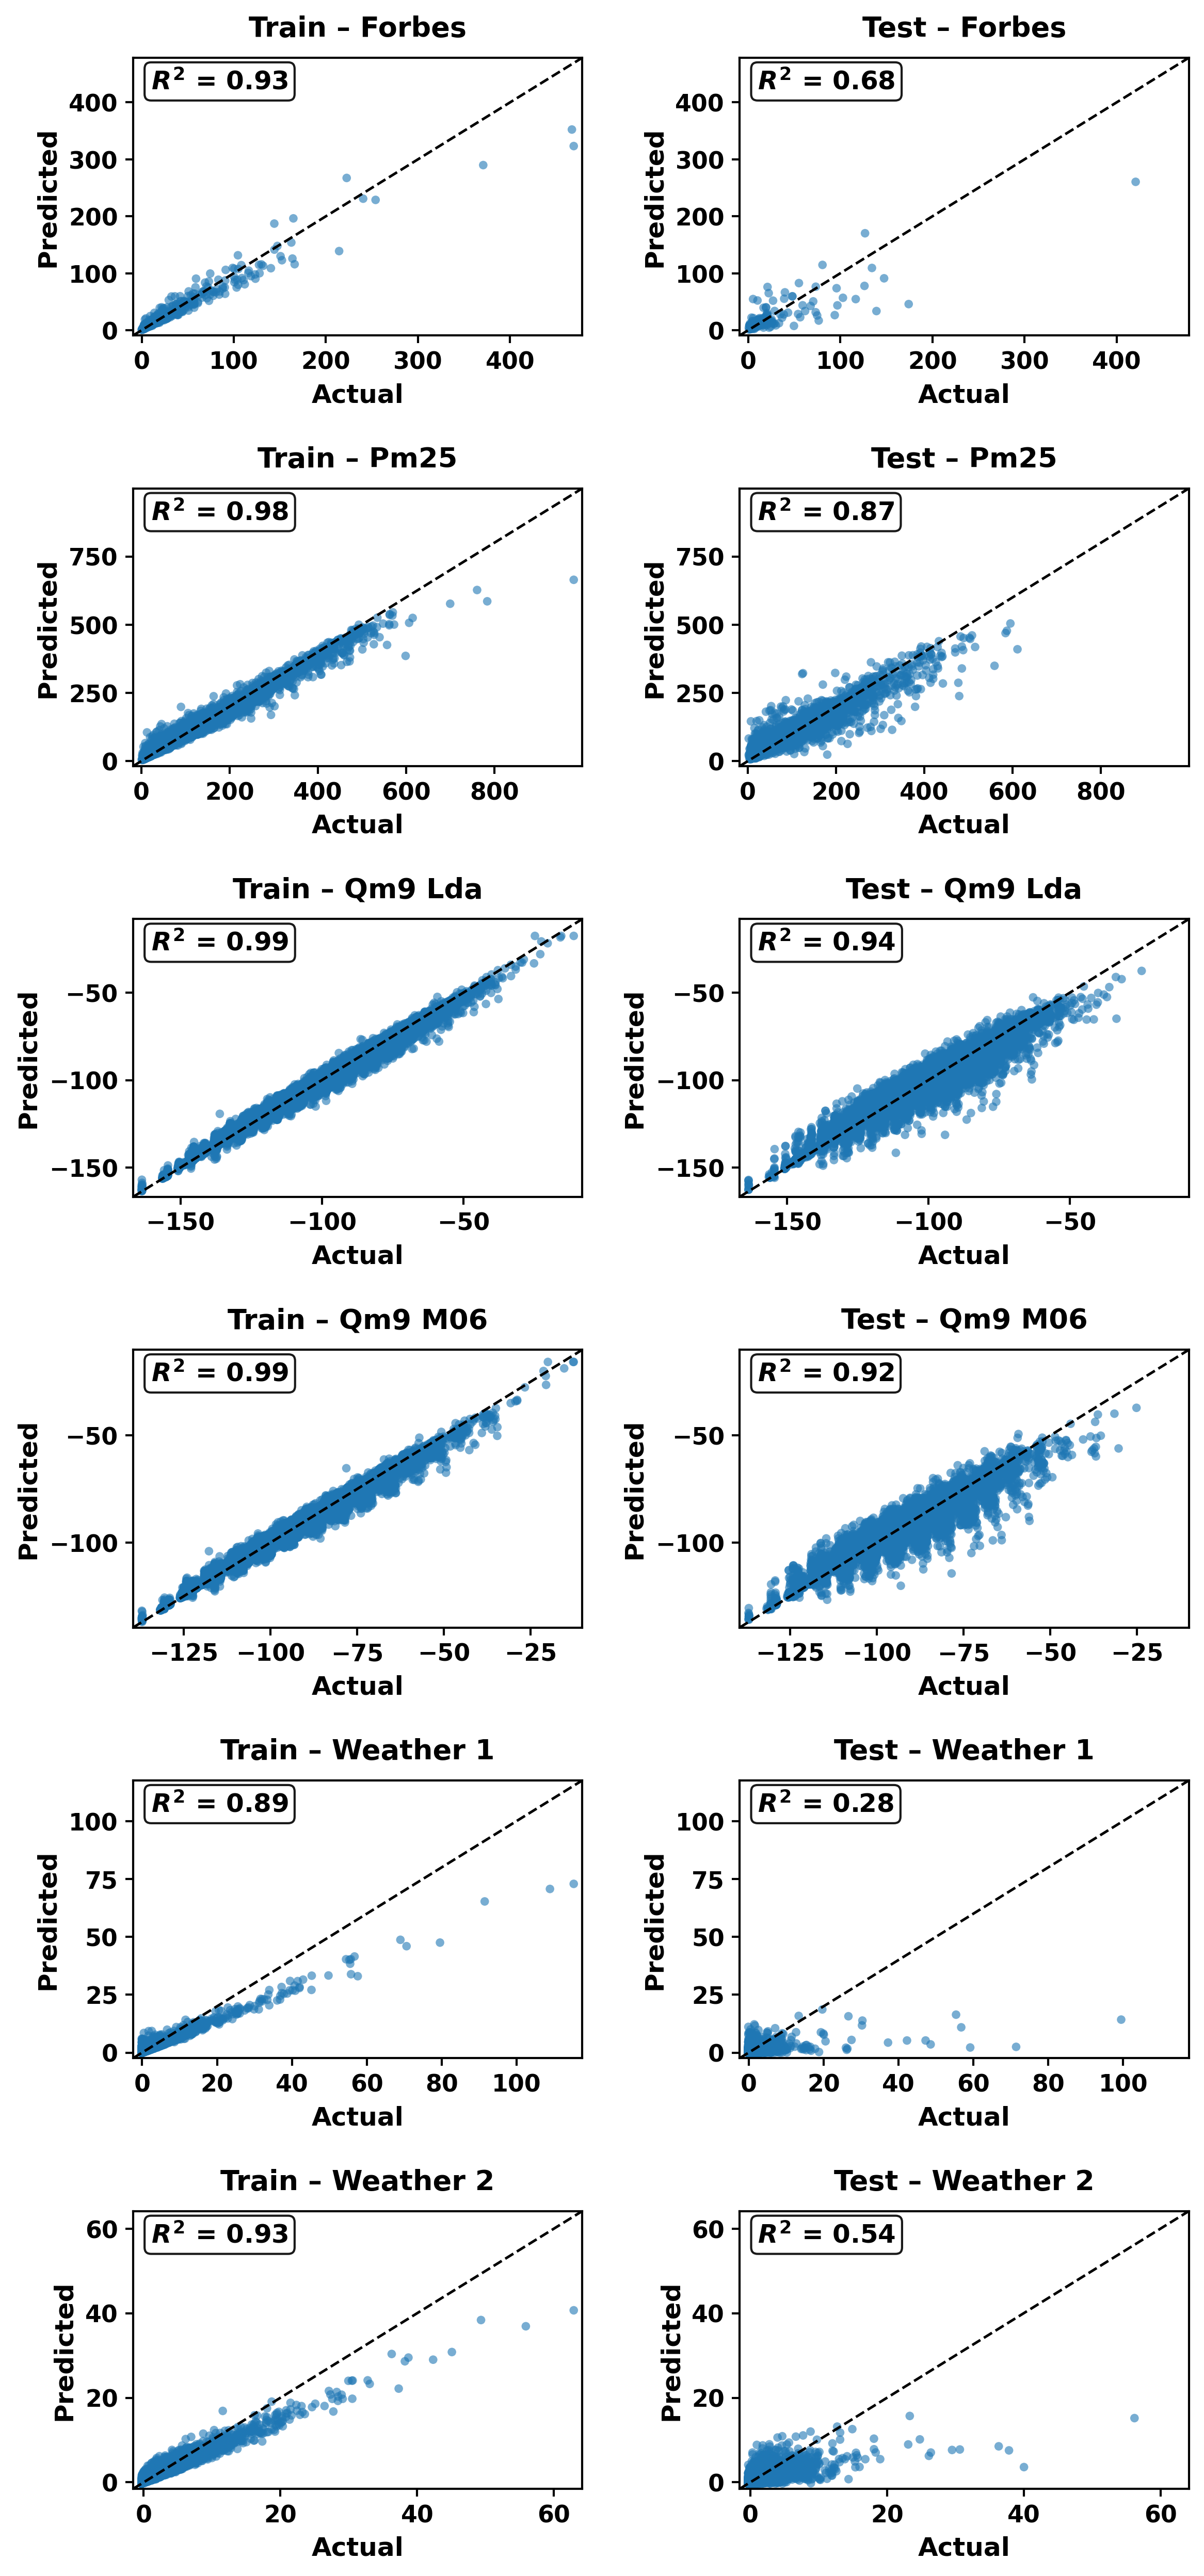
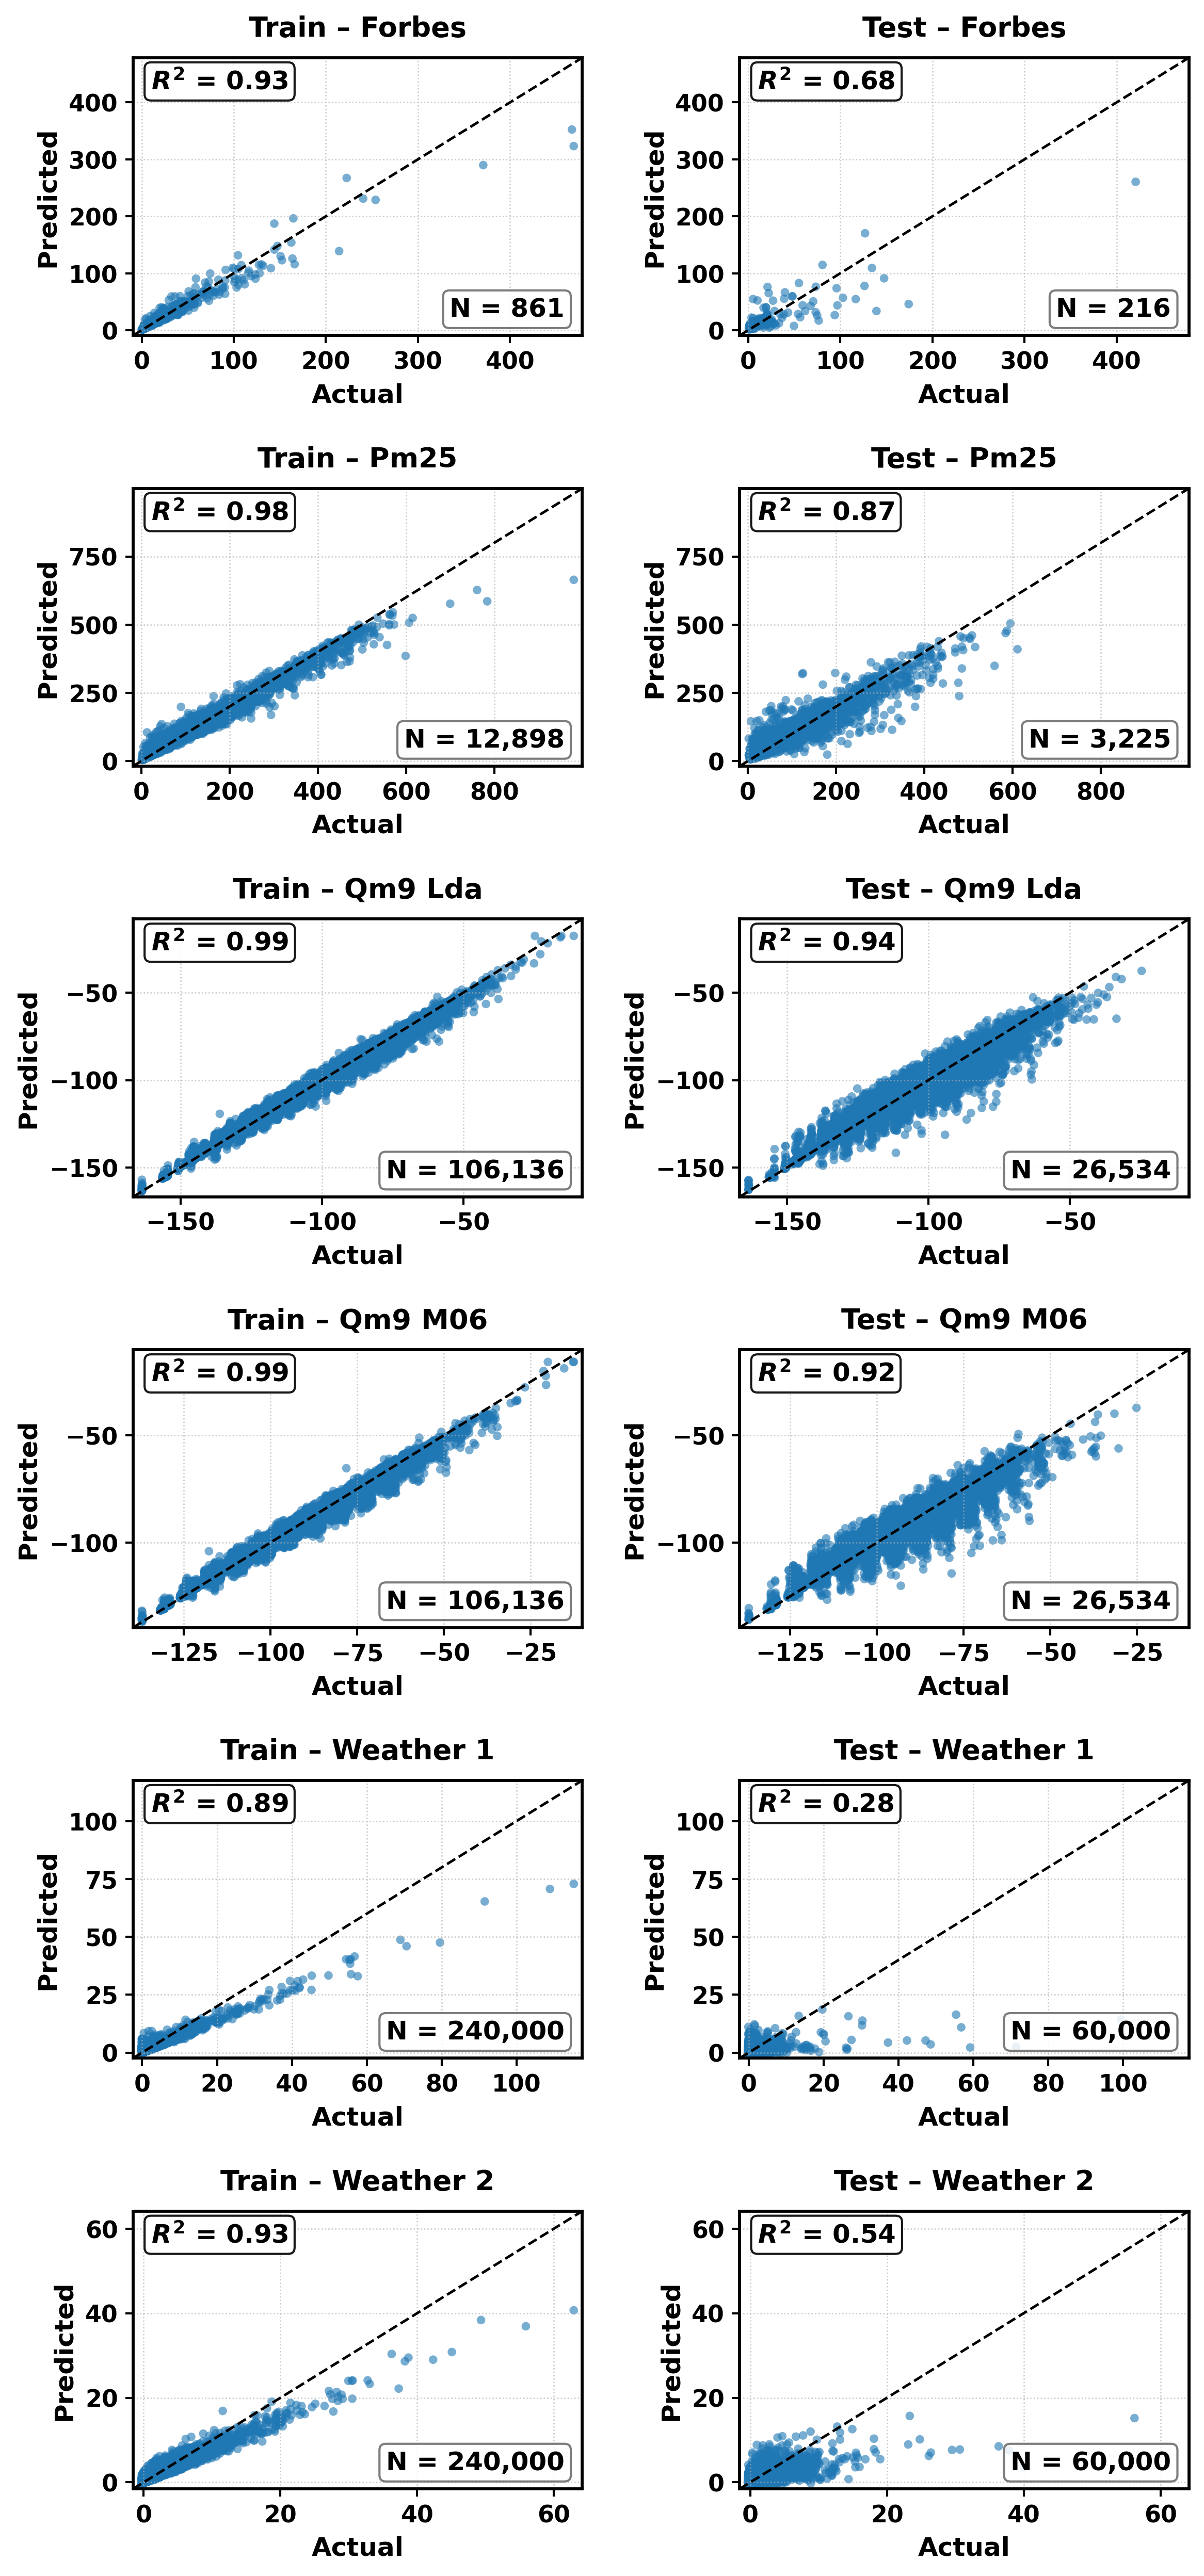
Final Plots

diff --git a/data_loader.py b/data_loader.py
@@ -1,82 +1,103 @@
 #!/usr/bin/env python3
 # -*- coding: utf-8 -*-
-"""
-Created on Tue Feb 18 12:06:26 2025
 
-@author: djriver7
-"""
-
+import os, io, glob, pickle
 import pandas as pd
-import glob
-import os
+import numpy as np
 from sklearn.model_selection import train_test_split
-from sklearn.preprocessing import StandardScaler
-import pickle
 
+LFS_SIGNS = ("version https://git-lfs.github.com/spec/v1", "oid sha256:")
 
-def load_data(file="qm9_full.csv",split=0.2,state=None):
+def _is_lfs_pointer(path, n_lines=3):
+    try:
+        with open(path, "r", encoding="utf-8", errors="ignore") as f:
+            head = "".join([next(f) for _ in range(n_lines)])
+        return any(sig in head for sig in LFS_SIGNS)
+    except Exception:
+        return False
 
+def _to_numeric_matrix(X: pd.DataFrame) -> pd.DataFrame:
+    # Convert non-numeric columns via one-hot encoding (drop_first to reduce collinearity)
+    non_num = [c for c in X.columns if not pd.api.types.is_numeric_dtype(X[c])]
+    if non_num:
+        X = pd.get_dummies(X, columns=non_num, drop_first=True)
+    # Ensure purely numeric
+    for c in X.columns:
+        if not pd.api.types.is_numeric_dtype(X[c]):
+            X[c] = pd.to_numeric(X[c], errors="coerce")
+    # Drop columns that became all-NaN after coercion
+    X = X.dropna(axis=1, how="all")
+    # Fill any residual NaNs with column medians
+    X = X.fillna(X.median(numeric_only=True))
+    return X
+
+def _prep_target(y: pd.Series) -> np.ndarray:
+    # If y is non-numeric (object), factorize to integers
+    if not pd.api.types.is_numeric_dtype(y):
+        y = pd.Series(pd.factorize(y)[0], index=y.index)
+    return y.to_numpy().reshape(-1)
+
+def load_data(file="qm9_full.csv", split=0.2, state=None):
+    """
+    Returns: X_train, X_test, y_train, y_test (all numpy arrays)
+    - Supports .pkl (tuple (X, Y) with Y[:,0] used) and .csv
+    - Detects LFS pointer files and raises an actionable error.
+    """
     if file.endswith(".pkl"):
-        with open(file,'rb') as f:
+        with open(file, "rb") as f:
             X, Y = pickle.load(f)
-            y1 = Y[:,0]
-            y2 = Y[:,1]
-        # Train-test split (80% train, 20% test)
-        X_train, X_test, Y_train, Y_test = train_test_split(X, y1, test_size=split, random_state=state)
+        y = Y[:, 0]  # your original convention
+        X_train, X_test, y_train, y_test = train_test_split(X, y, test_size=split, random_state=state)
+        return np.asarray(X_train), np.asarray(X_test), np.asarray(y_train), np.asarray(y_test)
 
-        X_train_scaled = X_train
-        X_test_scaled = X_test
+    # CSV path
+    matches = glob.glob(file)
+    if not matches:
+        raise FileNotFoundError(f"No file matched pattern: {file}")
 
-    else:
+    path = matches[0]
+    if _is_lfs_pointer(path):
+        raise RuntimeError(
+            f"File appears to be a Git LFS pointer: {path}\n"
+            f"Run:\n  git lfs install\n  git lfs pull\nThen re-run."
+        )
 
-        # Path to your CSV files (update this)
-        csv_files = glob.glob(file)
-    
-        # Dictionary to store processed data
-        data_dict = {}
-    
-        # Load, encode categorical columns, split, and scale data
-        for file in csv_files:
-            filename = os.path.basename(file)
-            if filename == 'qm9_full.csv':
-                df = pd.read_csv(file)  # Load dataset
-            
-                # Using U0 as the target for now
-                X = df.iloc[:, :-4]  # All columns except last four
-                Y = df.iloc[:, -4]   # Fourth to last column as target
-    
-                X_train, X_test, Y_train, Y_test = train_test_split(X, Y, test_size=split, 
-                                                    stratify=X['id_cat'],random_state=state)
-    
-                for set_ in (X_train, X_test):
-                    set_.drop(columns=['system','id_cat'], axis=1,inplace=True)
-    
-            else:
-                df = pd.read_csv(file)  # Load dataset
-            
-                # Assuming the last column is the target (Y)
-                X = df.iloc[:, :-1]  # All columns except last
-                Y = df.iloc[:, -1]   # Last column as target
-            
-                # # Convert categorical target variable Y to numerical if necessary
-                # if Y.dtype == 'O':  # If object (categorical), try converting
-                #     Y = pd.factorize(Y)[0]
-            
-                # # Encode categorical columns in X
-                # for col in X.columns:
-                #     if X[col].dtype == 'O':  # If column is categorical
-                #         X[col] = pd.factorize(X[col])[0]  # Assign unique numbers to each category
-            
-                # Train-test split (80% train, 20% test)
-                X_train, X_test, Y_train, Y_test = train_test_split(X, Y, test_size=split, random_state=state)
-        
-            # # Scale X data (standardization)
-            # scaler = StandardScaler()
-            # X_train = scaler.fit_transform(X_train)
-            # X_test = scaler.transform(X_test)
-        
-            # print(f"Processed {filename} - Train shape: {X_train.shape}, Test shape: {X_test.shape}")
-    
-        
-    # Now you can access data_dict['filename.csv'] for processed datasets.
-    return X_train,X_test,Y_train,Y_test
+    # Special handling for qm9_full.csv
+    if os.path.basename(path) == "qm9_full.csv":
+        df = pd.read_csv(path)
+        X = df.iloc[:, :-4].copy()
+        y = df.iloc[:, -4].copy()  # target U0
+        if "id_cat" not in X.columns:
+            raise ValueError("Expected 'id_cat' column for stratify in qm9_full.csv")
+        X_train, X_test, y_train, y_test = train_test_split(
+            X, y, test_size=split, random_state=state, stratify=X["id_cat"]
+        )
+        # Drop non-feature columns post split
+        for set_ in (X_train, X_test):
+            for col in ("system", "id_cat"):
+                if col in set_.columns:
+                    set_.drop(columns=[col], inplace=True)
+        X_train = _to_numeric_matrix(X_train)
+        X_test  = _to_numeric_matrix(X_test)
+        y_train = _prep_target(y_train)
+        y_test  = _prep_target(y_test)
+        return X_train.to_numpy(), X_test.to_numpy(), y_train, y_test
+
+    # Generic CSV: last column is target
+    df = pd.read_csv(path)
+    if df.shape[1] < 2:
+        raise ValueError(f"{path} has <2 columns (did you pull LFS content?): shape={df.shape}")
+
+    X = df.iloc[:, :-1].copy()
+    y = df.iloc[:, -1].copy()
+
+    X = _to_numeric_matrix(X)
+    y = _prep_target(y)
+
+    if X.shape[0] != y.shape[0] or X.shape[0] == 0:
+        raise ValueError(f"Invalid shapes after preprocessing: X={X.shape}, y={y.shape}")
+
+    X_train, X_test, y_train, y_test = train_test_split(
+        X.to_numpy(), y, test_size=split, random_state=state
+    )
+    return X_train, X_test, y_train, y_test

diff --git a/All_datasets_test.py b/All_datasets_test.py
@@ -7,9 +7,8 @@ import matplotlib as mpl
 import matplotlib.pyplot as plt
 
 from sklearn.ensemble import RandomForestRegressor
-from sklearn.metrics import mean_squared_error
+from sklearn.metrics import r2_score
 from skopt import BayesSearchCV
-from sklearn.metrics import mean_squared_error, r2_score
 
 from data_loader import load_data
 
@@ -34,35 +33,33 @@ mpl.rcParams.update({
 
 # ---------------------- Helpers ----------------------
 def display_name(path):
-    """Pretty title without .csv, underscores to spaces, Title Case."""
     base = os.path.basename(path)
     name = os.path.splitext(base)[0]
     return re.sub(r'\s+', ' ', name.replace('_', ' ')).title()
 
 def family_key(path):
-    """
-    Group datasets that share the same 'family' name.
-    Heuristic:
-      - strip extension
-      - if it ends with _<digits>, drop the numeric suffix
-      - otherwise keep as-is
-    Ex: weather_1 -> weather ; weather_2 -> weather ; pm25 -> pm25
-    """
     stem = os.path.splitext(os.path.basename(path))[0]
-    m = re.match(r'^(.*?)(?:_\d+)?$', stem)  # non-greedy, drop _<digits> if present
+    m = re.match(r'^(.*?)(?:_\d+)?$', stem)
     fam = m.group(1) if m else stem
     return fam.lower()
 
 def family_label(fam):
-    """Left-margin label for a family key, prettified."""
     return fam.replace('_', ' ').title()
+
+def as_array(x):
+    return x.values if hasattr(x, "values") else np.asarray(x)
+
+def box_axes(ax, lw=1.4):
+    """Turn on and thicken all four spines (full box)."""
+    for side in ("top", "right", "left", "bottom"):
+        ax.spines[side].set_visible(True)
+        ax.spines[side].set_linewidth(lw)
 
 # ---------------------- Data discovery ----------------------
 csv_files = glob.glob("./Datasets/*.csv")
 if not csv_files:
     raise FileNotFoundError("No CSV files found in ./Datasets/*.csv")
 
-# Sort by (family, then name) so rows from same family stay together
 csv_files = sorted(csv_files, key=lambda p: (family_key(p), os.path.basename(p).lower()))
 n_rows = len(csv_files)
 
@@ -79,21 +76,31 @@ base_forest = RandomForestRegressor(n_estimators=100, n_jobs=4, random_state=ran
 fig, axs = plt.subplots(n_rows, 2, figsize=(8.8, 3.4 * n_rows),
                         gridspec_kw={'hspace': 0.55, 'wspace': 0.35})
 if n_rows == 1:
-    axs = np.expand_dims(axs, axis=0)  # ensure 2D
+    axs = np.expand_dims(axs, axis=0)
 
-# Draw subtle family labels in the left margin at the start of each group
+# Group label placement (optional)
 y_offsets = []
 families = [family_key(f) for f in csv_files]
 for i, fam in enumerate(families):
     if i == 0 or fam != families[i-1]:
         y_offsets.append((i, fam))
 
+np.set_printoptions(suppress=True, linewidth=140)
+
 # ---------------------- Main loop ----------------------
 for i, file in enumerate(csv_files):
-    # Load data
     X_train, X_test, y_train, y_test = load_data(file=file, split=0.2, state=random_state)
 
-    # Choose model
+    # Preview first 5 rows
+    Xh = as_array(X_train)
+    yh = as_array(y_train).reshape(-1)
+    print("\n=== Sample rows:", os.path.basename(file), "===")
+    print("X_train (first 5):")
+    print(Xh[:5])
+    print("y_train (first 5):")
+    print(yh[:5])
+
+    # Choose/fit
     if tune_bays:
         opt = BayesSearchCV(
             estimator=base_forest,
@@ -108,7 +115,6 @@ for i, file in enumerate(csv_files):
     else:
         model = base_forest
 
-    # --- Fit & predict ---
     model.fit(X_train, y_train)
     pred_train = model.predict(X_train)
     pred_test  = model.predict(X_test)
@@ -117,8 +123,9 @@ for i, file in enumerate(csv_files):
     r2_train = r2_score(y_train, pred_train)
     r2_test  = r2_score(y_test,  pred_test)
 
-    # Axis limits shared per row (so train/test have same scale)
-    all_vals = np.concatenate([y_train, pred_train, y_test, pred_test])
+    # Shared limits per row
+    all_vals = np.concatenate([as_array(y_train), as_array(pred_train),
+                               as_array(y_test),  as_array(pred_test)])
     vmin, vmax = np.min(all_vals), np.max(all_vals)
     pad = 0.02 * (vmax - vmin if vmax > vmin else 1.0)
     lo, hi = vmin - pad, vmax + pad
@@ -132,10 +139,17 @@ for i, file in enumerate(csv_files):
     axL.set_ylabel("Predicted")
     axL.set_title(f"Train – {display_name(file)}", pad=10)
 
-    # Replace RMSE box with R²
+    # Metrics boxes
     axL.text(0.04, 0.96, f"$R^2$ = {r2_train:.2f}",
              transform=axL.transAxes, va='top', ha='left',
              bbox=dict(boxstyle="round,pad=0.25", fc="white", ec="black", alpha=0.9))
+    axL.text(0.96, 0.05, f"N = {len(y_train):,}",
+             transform=axL.transAxes, va='bottom', ha='right',
+             bbox=dict(boxstyle="round,pad=0.25", fc="white", ec="0.4", alpha=0.85))
+
+    # Grid + BOXED spines
+    axL.grid(True, ls=':', lw=0.6, alpha=0.7)
+    box_axes(axL, lw=1.4)
 
     # ---------------------- Test panel ----------------------
     axR = axs[i, 1]
@@ -149,7 +163,18 @@ for i, file in enumerate(csv_files):
     axR.text(0.04, 0.96, f"$R^2$ = {r2_test:.2f}",
              transform=axR.transAxes, va='top', ha='left',
              bbox=dict(boxstyle="round,pad=0.25", fc="white", ec="black", alpha=0.9))
+    axR.text(0.96, 0.05, f"N = {len(y_test):,}",
+             transform=axR.transAxes, va='bottom', ha='right',
+             bbox=dict(boxstyle="round,pad=0.25", fc="white", ec="0.4", alpha=0.85))
 
+    axR.grid(True, ls=':', lw=0.6, alpha=0.7)
+    box_axes(axR, lw=1.4)
+
+# # Optional group labels (kept as before)
+# for (row_idx, fam) in y_offsets:
+#     fig.text(0.02, axs[row_idx, 0].get_position().y1 - 0.01,
+#              family_label(fam), ha='left', va='top',
+#              fontsize=13, fontweight='bold')
 
 plt.tight_layout()
 
@@ -160,4 +185,4 @@ plt.savefig(out_png, bbox_inches="tight")
 plt.savefig(out_pdf, bbox_inches="tight")
 plt.show()
 
-print(f"Saved: {out_png}, {out_pdf}")
+print(f"\nSaved: {out_png}, {out_pdf}")